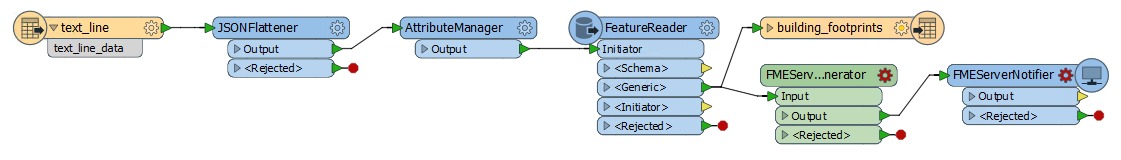
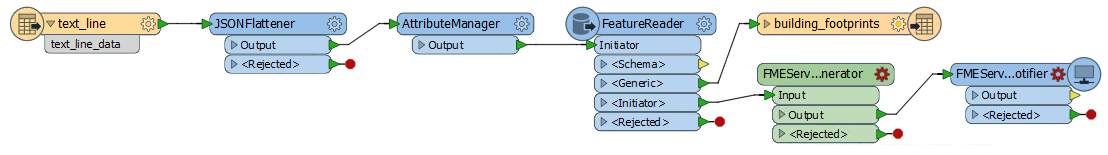
2017 Chapter 4 Exercise 5
Updated the table in Step 3; Updated image for Step 2

Changed region(s): [[0.0, 0.0258, 1.0, 0.929]]

diff --git a/ServerAuthoring4RealTime/Exercise5.md b/ServerAuthoring4RealTime/Exercise5.md
@@ -92,7 +92,9 @@ Most of the general settings (Email To, Email Template, etc.) will be set by the
 
 
 <br>**2) Edit Workspace**
-<br>Open the workspace from Exercise 4 (or the Start Workspace listed above). Add two new transformers - the FMEServerEmailGenerator (a custom transformer) and an FMEServerNotifier - as a separate stream of data:
+<br>Open the workspace from Exercise 4 (or the Start Workspace listed above). 
+
+Add two new transformers - the FMEServerEmailGenerator (a custom transformer) and an FMEServerNotifier - as a separate stream of data, connected to the <Initiator\> Output Port of the FeatureReader:
 
 ![](./Images/Img4.429.Ex5.WorkspaceWithNotifier.png)
 
@@ -106,31 +108,27 @@ Each field can also accept attributes allowing the email to be dynamically confi
 
 <tr>
 <td style="font-weight: bold">To</td>
-<td style="font-weight: bold">Subject</td>
-<td style="font-weight: bold">Content</td>
+<td style="">(An email you have access to check)</td>
 </tr>
 
 <tr>
-<td style="font-weight: bold">(An email you have access to check)</td>
-<td style="font-weight: bold">Building Footprints Database Updated</td>
-<td style="font-weight: bold">
-<pre>
-The Building Footprints database has been updated!
-<fmeblock type="optional"\>
-{NumFeaturesOutput} features were updated at {timeFinished}.
-Job {id} Log: {logUrl}
-</fmeblock\>
-</pre>
-</td>
+<td style="font-weight: bold">Subject</td>
+<td style="">Building Footprints Database Updated</td>
+
+</tr>
+
+<tr>
+<td style="font-weight: bold">Content</td>
+<td style="">The Building Footprints database has been updated!</td>
 </tr>
 
 </table>
 
-The {tags} inside the Content text field will be automatically set when the workspace is run.
-
 
 <br>**4) Edit FMEServerNotifier**
-<br>Now edit the parameters for the FMEServerNotifier transformer. Set FME Server Connection parameters, pick the Topic created earlier (BuildingUpdateEmail) and for the Content select the attribute *text_line_data* (this attribute is created by the FMEServerEmailGenerator):
+<br>Now edit the parameters for the FMEServerNotifier transformer. 
+
+Set FME Server Connection parameters, pick the Topic created earlier (BuildingUpdateEmail), and for the Content select the attribute *text_line_data* (this attribute is created by the FMEServerEmailGenerator):
 
 ![](./Images/Img4.430.Ex5.FMEServerNotifierParameters.png)
 
